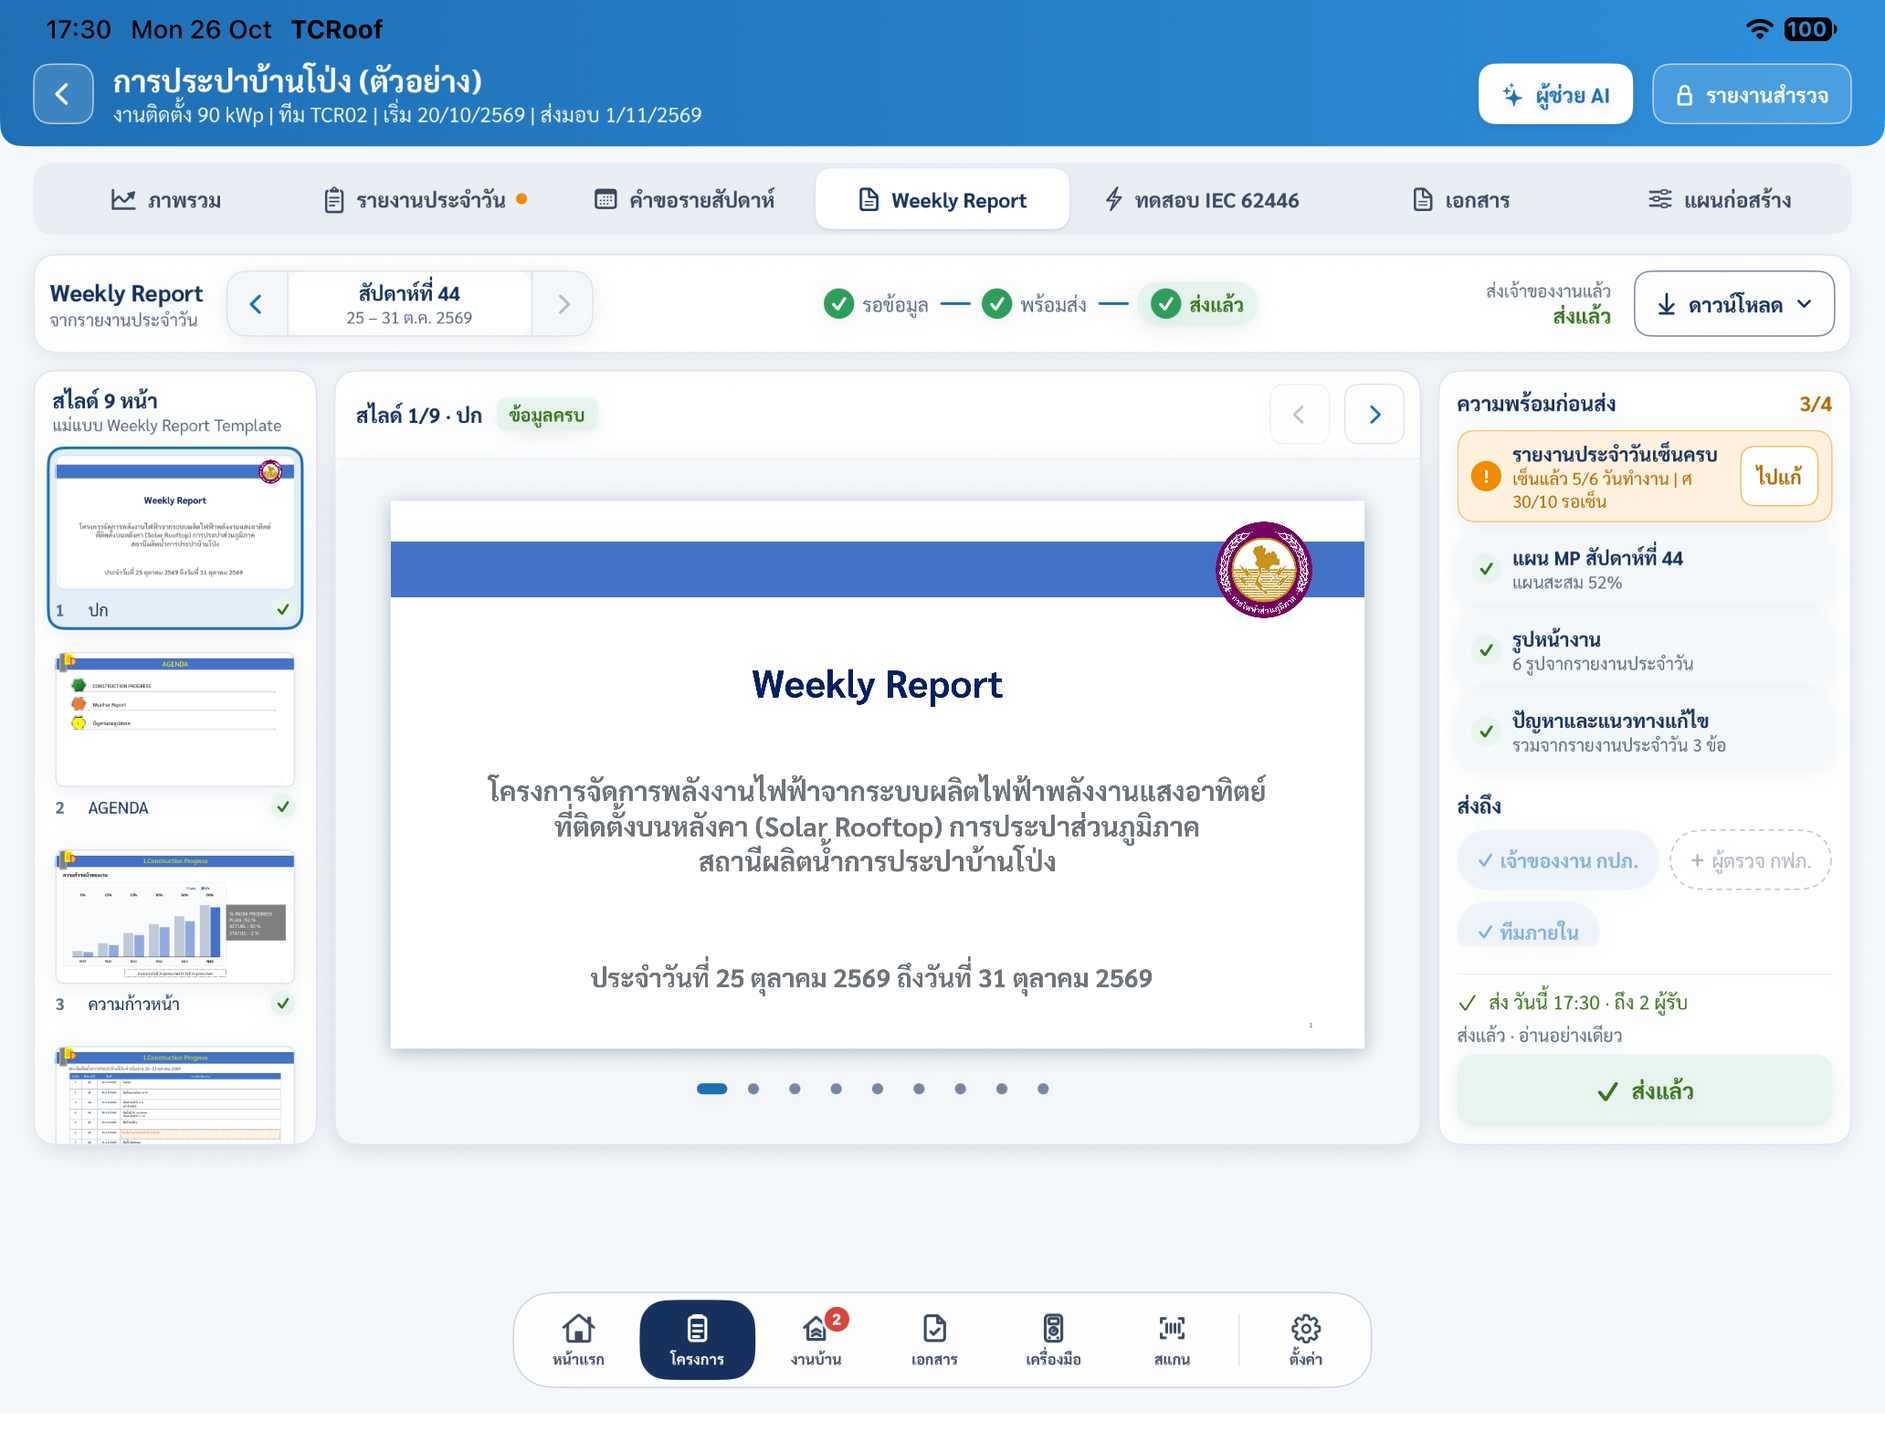
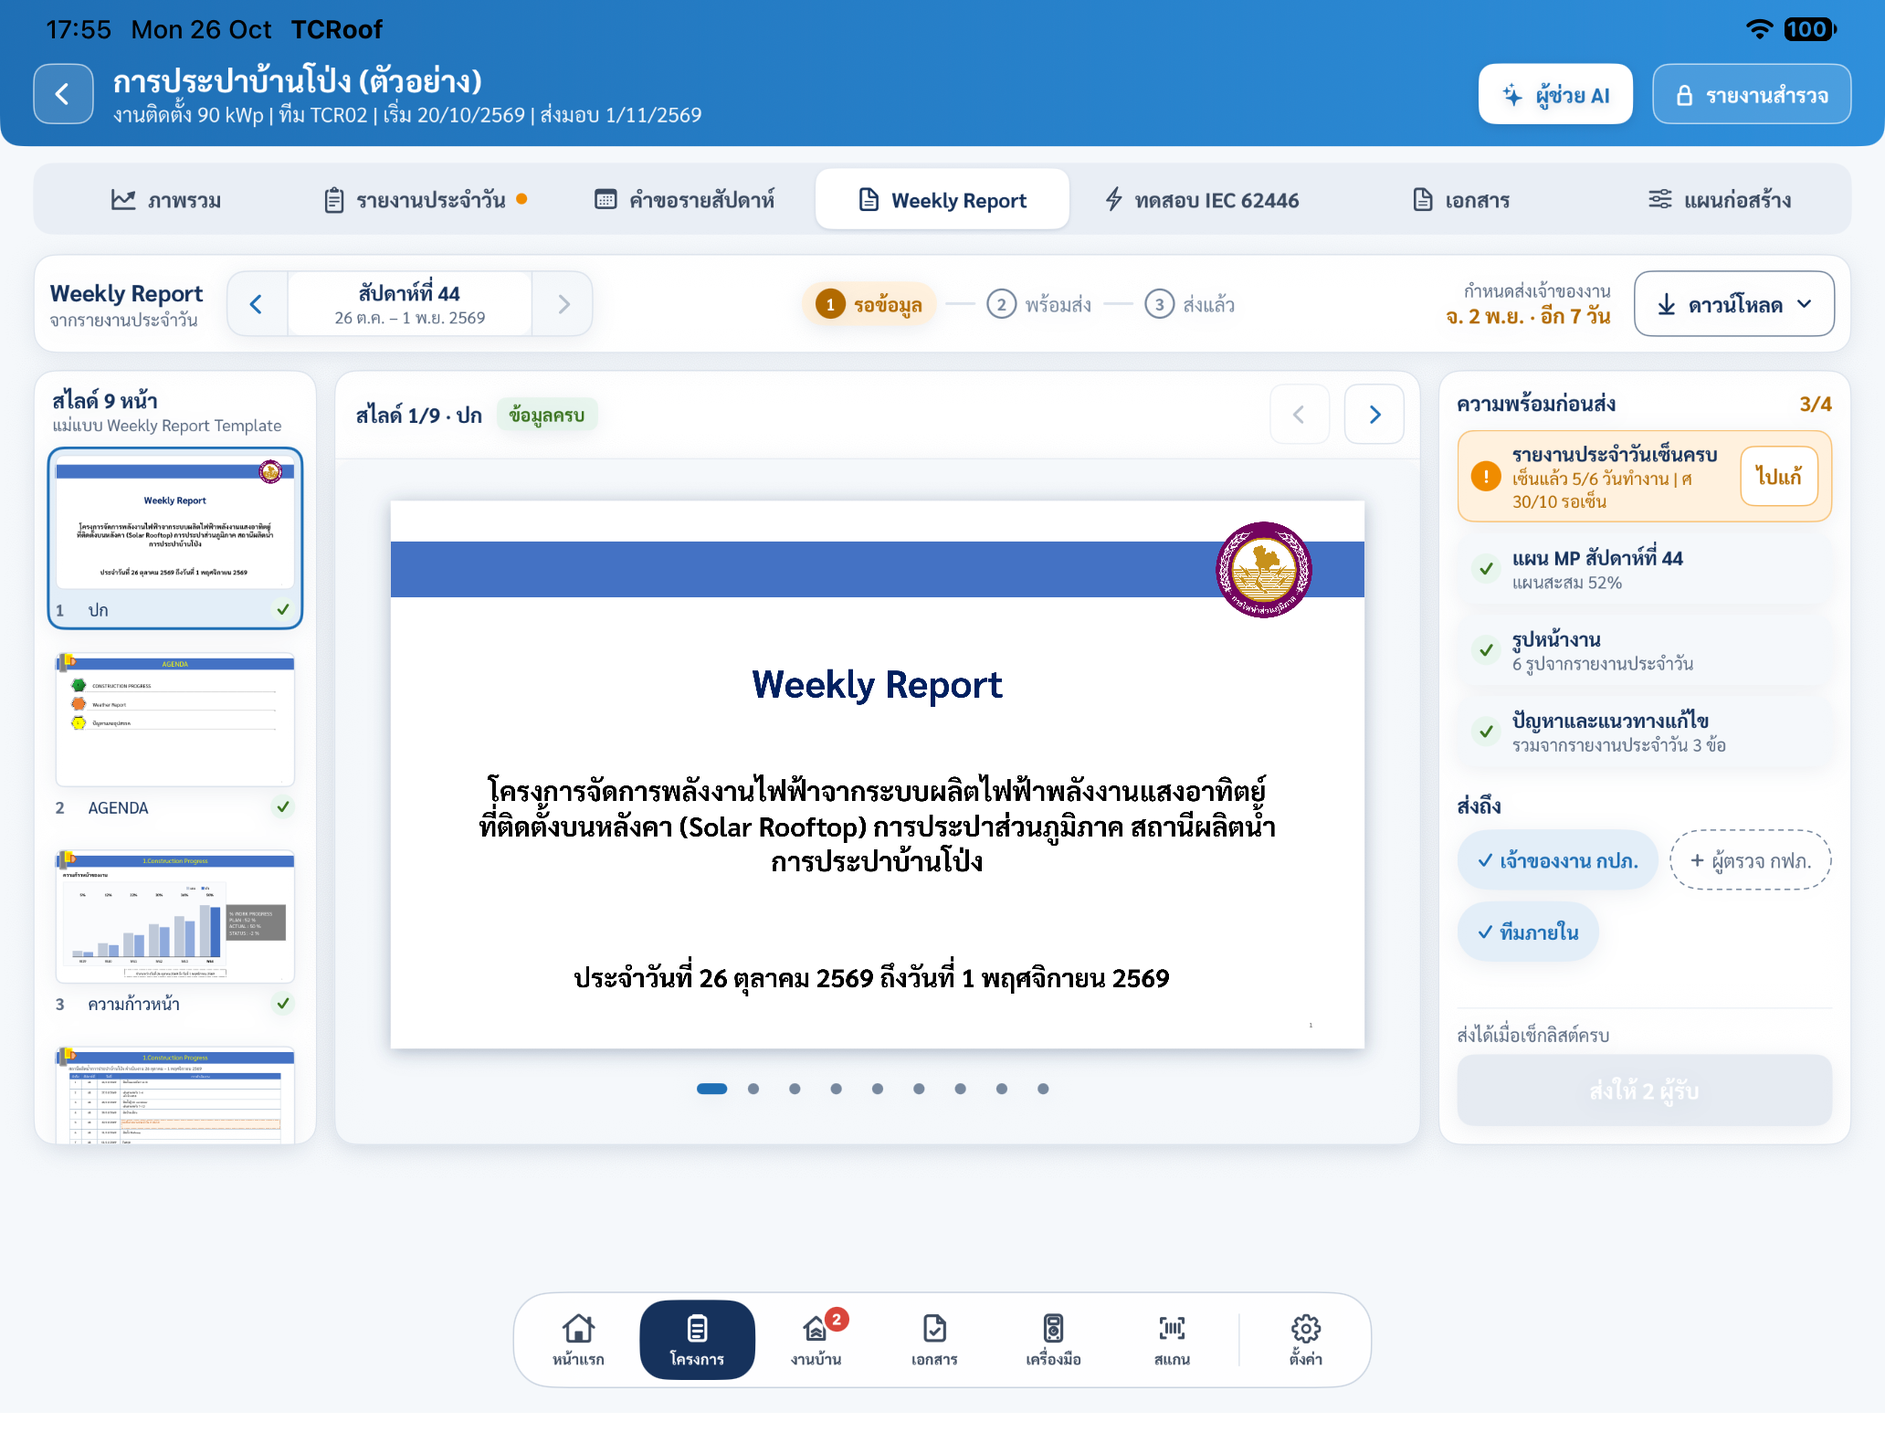
Weekly Report: Monday-to-Sunday weeks, black cover lines
- The Weekly Report's week runs Monday to Sunday as the customer's deck
  (`WeeklySlides.week(of:)`, ISO week numbers): the deck, the tab's week
  switcher and its checks on both sizes. The R3 PDF, the MP plan and file
  names keep their Sunday weeks; the send record is keyed by that Sunday.
- The cover's project line and date line are black.

Claude-Session: https://claude.ai/code/session_01UN56C5tqBzLHr9iWANZJVH

diff --git a/TCRoofKit/Tests/ExcelExportTests/WeeklySlidesTests.swift b/TCRoofKit/Tests/ExcelExportTests/WeeklySlidesTests.swift
@@ -11,8 +11,8 @@ final class WeeklySlidesTests: XCTestCase {
     /// A small real JPEG (the IEC form's PWA logo, 220 × 222).
     func jpeg() throws -> Data { try XCTUnwrap(ZipArchive(IECExcel.template()).data("xl/media/image1.jpeg")) }
 
-    /// MP 189's plan; the week of 8 มี.ค. 2569 (Sunday) with reports on Monday (signed, no photos), Tuesday (signed, the
-    /// photos, a problem) and Wednesday (not signed), as of Saturday.
+    /// MP 189's plan; the week of 9–15 มี.ค. 2569 (Monday to Sunday) with reports on Monday (signed, no photos), Tuesday
+    /// (signed, the photos, a problem) and Wednesday (not signed), as of Saturday.
     func input(photos: [WeeklySlides.DayPhoto], wedSigned: Bool = false) -> WeeklySlides.Input {
         let plan = MasterSchedule.Input(installStart: day(2026, 2, 22), installEnd: day(2026, 4, 8), kickoff: day(2026, 1, 5),
                                         engineeringStart: day(2026, 1, 5), siteHandover: day(2026, 1, 12), over200kVA: false)
@@ -57,12 +57,12 @@ final class WeeklySlidesTests: XCTestCase {
         }
         // the order: cover, AGENDA, progress, the day table, the photo slides, weather, problems
         XCTAssertTrue(s[0].contains("Weekly Report") && s[0].contains("สถานีผลิตน้ำทุ่งน้อย"))
-        XCTAssertTrue(s[0].contains("ประจำวันที่ 8 มีนาคม 2569 ถึงวันที่ 14 มีนาคม 2569"))
+        XCTAssertTrue(s[0].contains("ประจำวันที่ 9 มีนาคม 2569 ถึงวันที่ 15 มีนาคม 2569"), "Monday to Sunday")
         XCTAssertTrue(s[1].contains("AGENDA") && s[1].contains("CONSTRUCTION PROGRESS") && s[1].contains("Weather Report"))
         XCTAssertTrue(s[2].contains("ความก้าวหน้าของงาน") && s[2].contains("% WORK PROGRESS"))
         XCTAssertTrue(s[3].contains("การดำเนินงาน") && s[3].contains("-ติดตั้งโครงสร้าง | โซน A"), "done work starts with -")
-        XCTAssertTrue(s[3].contains("สถานีผลิตน้ำทุ่งน้อย ดำเนินงาน 8–14 มีนาคม 2569"))
-        XCTAssertTrue(s[2].contains("ช่วงระหว่างวันที่ 8 มีนาคม 2569 ถึง วันที่ 14 มีนาคม 2569"))
+        XCTAssertTrue(s[3].contains("สถานีผลิตน้ำทุ่งน้อย ดำเนินงาน 9–15 มีนาคม 2569"))
+        XCTAssertTrue(s[2].contains("ช่วงระหว่างวันที่ 9 มีนาคม 2569 ถึง วันที่ 15 มีนาคม 2569"))
         XCTAssertTrue((4...6).allSatisfy { s[$0].contains("PROGRESS FOR THIS WEEK") })
         XCTAssertTrue(s[7].contains("2.Weather Report") && s[7].contains("ฝนตก") && s[7].contains("แจ่มใส"))
         XCTAssertTrue(s[7].contains(">MON<") && s[7].contains(">SUN<"))
@@ -96,12 +96,13 @@ final class WeeklySlidesTests: XCTestCase {
         let c = WeeklySlides.content(input(photos: []))
         XCTAssertEqual(c.waiting, ["พ 11/3", "พฤ 12/3", "ศ 13/3", "ส 14/3"], "unsigned, then working days with no report")
         XCTAssertEqual(c.rows.count, 7)
-        XCTAssertEqual(c.rows[0].state, .off, "Sunday")
-        XCTAssertEqual(c.rows[1].state, .done)
-        XCTAssertEqual(c.rows[3].state, .waiting)
-        XCTAssertEqual(c.rows[3].lines, ["รอเซ็นรายงานประจำวัน พ 11/3"])
+        XCTAssertEqual(c.rows[0].state, .done, "Monday first")
+        XCTAssertEqual(c.rows[2].state, .waiting)
+        XCTAssertEqual(c.rows[2].lines, ["รอเซ็นรายงานประจำวัน พ 11/3"])
         // Thursday to Saturday have no report: working days already past, so they wait too
-        XCTAssertEqual(c.rows[4].lines, ["ยังไม่มีรายงานประจำวัน พฤ 12/3"])
+        XCTAssertEqual(c.rows[3].lines, ["ยังไม่มีรายงานประจำวัน พฤ 12/3"])
+        XCTAssertEqual(c.rows[6].state, .off, "Sunday last")
+        XCTAssertEqual(c.weather.map(\.name), ["MON", "TUE", "WED", "THU", "FRI", "SAT", "SUN"])
         let o = WeeklySlides.outline(input(photos: []))
         XCTAssertEqual(o.map(\.label), ["ปก", "AGENDA", "ความก้าวหน้า", "งานรายวัน", "ภาพหน้างาน", "Weather Report", "ปัญหาและอุปสรรค"])
         XCTAssertEqual(o.map(\.number), Array(1...7))
@@ -118,7 +119,7 @@ final class WeeklySlidesTests: XCTestCase {
         let o = WeeklySlides.outline(i)
         XCTAssertTrue(o.allSatisfy(\.ready), o.filter { !$0.ready }.map(\.label).joined(separator: ", "))
         // Thursday onwards is still ahead
-        XCTAssertEqual(WeeklySlides.content(i).rows[4].state, .ahead)
+        XCTAssertEqual(WeeklySlides.content(i).rows[3].state, .ahead)
     }
 
     /// The week's photos day by day, two a slide, at most twenty.
@@ -153,15 +154,24 @@ final class WeeklySlidesTests: XCTestCase {
     }
 
     /// The customer's deck: text in TH SarabunPSK at its point sizes (band title 36 pt, cover title 54 pt, the day table in
-    /// TH Sarabun New at 16 pt with an 18 pt header and 1 pt borders), the cover's lines in its grey.
+    /// TH Sarabun New at 16 pt with an 18 pt header and 1 pt borders), the cover's lines in black.
     func testTheCustomersFontsAndSizes() throws {
         let s = try slides(ZipArchive(WeeklySlides.export(input(photos: []), images: [:])))
         XCTAssertTrue(s[0].contains("typeface=\"TH SarabunPSK\""))
         XCTAssertTrue(s[0].contains("sz=\"5400\" b=\"1\""), "Weekly Report 54 pt bold")
-        XCTAssertTrue(s[0].contains("6E747A"), "the cover's grey")
+        XCTAssertFalse(s[0].contains("6E747A"), "the cover's lines in black")
+        XCTAssertTrue(s[0].contains("val=\"000000\"/></a:solidFill><a:latin typeface=\"TH SarabunPSK\"/><a:ea typeface=\"TH SarabunPSK\"/><a:cs typeface=\"TH SarabunPSK\"/></a:rPr><a:t>โครงการ"), "the project line in black")
         XCTAssertTrue(s[2].contains("sz=\"3600\""), "the band title")
         XCTAssertTrue(s[3].contains("typeface=\"TH Sarabun New\"") && s[3].contains("sz=\"1600\"") && s[3].contains("sz=\"1800\""))
         XCTAssertTrue(s[3].contains("w=\"12700\""), "1 pt borders")
+    }
+
+    /// Monday to Sunday, numbered by ISO week; a Sunday belongs to the week before.
+    func testTheWeek() {
+        XCTAssertEqual(WeeklySlides.week(of: day(2026, 3, 11)), day(2026, 3, 9)...day(2026, 3, 15))
+        XCTAssertEqual(WeeklySlides.week(of: day(2026, 3, 15)), day(2026, 3, 9)...day(2026, 3, 15))
+        XCTAssertEqual(WeeklySlides.week(of: day(2026, 3, 16)).lowerBound, day(2026, 3, 16))
+        XCTAssertEqual(WeeklySlides.weekNumber(day(2025, 6, 30)), 27, "the customer's deck: 30 มิ.ย. 2568 is week 27")
     }
 
     func testFileName() {

diff --git a/TCRoofKit/Sources/ExcelExport/WeeklySlides+Content.swift b/TCRoofKit/Sources/ExcelExport/WeeklySlides+Content.swift
@@ -108,7 +108,7 @@ extension WeeklySlides {
 
     public struct Content: Sendable {
         public var weekStart: Date
-        /// `WEEKNUM` of the week (Sunday first), the template's `สัปดาห์ที่`.
+        /// The ISO number of the week (Monday to Sunday), the template's `สัปดาห์ที่`.
         public var weekNumber: Int
         /// The cover's project lines and `สถานีผลิตน้ำ…`.
         public var project: [String]
@@ -185,11 +185,11 @@ extension WeeklySlides {
     /// nil takes every photo.
     public static func content(_ input: Input, images: [UUID: Data]? = nil) -> Content {
         let cal = RoutineReport.calendar
-        let range = RoutineReport.week(of: input.week), start = range.lowerBound
+        let range = week(of: input.week), start = range.lowerBound
         let days = input.days.filter { range.contains(cal.startOfDay(for: $0.report.date)) }.sorted { $0.report.date < $1.report.date }
         let reports = days.map(\.report)
         let today = cal.startOfDay(for: input.asOf)
-        let weekNumber = MasterSchedule.calendar.component(.weekOfYear, from: start)
+        let weekNumber = WeeklySlides.weekNumber(start)
 
         // slide 3: the plan's cumulative percent at the end of each of the last six weeks
         var bars: [Bar] = [], planned: Double?, actual: Double?
@@ -199,7 +199,7 @@ extension WeeklySlides {
                 let w = cal.date(byAdding: .day, value: -7 * k, to: start)!
                 let end = min(cal.date(byAdding: .day, value: 6, to: w)!, max(today, w))
                 let st = MasterSchedule.status(plan: plan, actual: s.actual, through: end)
-                bars.append(Bar(label: "W\(MasterSchedule.calendar.component(.weekOfYear, from: w))", planned: st.planned,
+                bars.append(Bar(label: "W\(WeeklySlides.weekNumber(w))", planned: st.planned,
                                 actual: st.actual, current: k == 0))
             }
             planned = bars.last?.planned; actual = bars.last?.actual
@@ -270,6 +270,21 @@ extension WeeklySlides {
                        photoCount: perDay.reduce(0) { $0 + $1.count }, weather: weather,
                        problems: all.map(\.description), fixes: all.map(\.solution).filter { !$0.isEmpty },
                        waiting: waiting, reportCount: reports.count)
+    }
+
+    /// The Weekly Report's week, Monday to Sunday as the customer's deck (the R3 PDF and the MP plan count weeks from
+    /// Sunday).
+    public static func week(of date: Date) -> ClosedRange<Date> {
+        let cal = RoutineReport.calendar, d = cal.startOfDay(for: date)
+        let monday = cal.date(byAdding: .day, value: -((cal.component(.weekday, from: d) + 5) % 7), to: d)!
+        return monday...cal.date(byAdding: .day, value: 6, to: monday)!
+    }
+
+    /// The ISO week number of a Monday-to-Sunday week (`สัปดาห์ที่`, `W40`).
+    public static func weekNumber(_ d: Date) -> Int {
+        var iso = Calendar(identifier: .iso8601)
+        iso.timeZone = RoutineReport.calendar.timeZone
+        return iso.component(.weekOfYear, from: d)
     }
 
     /// `28 กันยายน 2569`.

diff --git a/TCRoof/Views/Install/Tracking/InstallTrackingPage+WeeklyReport.swift b/TCRoof/Views/Install/Tracking/InstallTrackingPage+WeeklyReport.swift
@@ -736,16 +736,17 @@ private struct FlowRow: Layout {
 
 extension InstallTrackingPage {
     /// The board's example week (docs/ui/install-tracking-ipad-weekly-report/assets/sample-data.json) around today:
-    /// Monday to Saturday reported, Friday not signed unless `allSigned`, six drawn photos; nothing is saved.
+    /// Monday to Saturday reported (the week runs Monday to Sunday), Friday not signed unless `allSigned`, six drawn
+    /// photos; nothing is saved.
     static func demoReport(week: Date, allSigned: Bool) -> (input: WeeklySlides.Input, images: [UUID: Data]) {
-        let cal = RoutineReport.calendar, start = MasterSchedule.weekStart(week)
+        let cal = RoutineReport.calendar, start = WeeklySlides.week(of: week).lowerBound
         let work = [["ติดตั้งแผงหลังคา A–B"], ["เดินสายสตริง 1–6", "เข้าหัว MC4"], ["ติดตั้งตู้ DC combiner", "เดินสายสตริง 7–12"],
                     ["ติดป้ายเตือน"], ["เทฐานอินเวอร์เตอร์"], ["ติดตั้ง Walkway"]]
         let sky: [RoutineReport.Weather] = [.fine, .fine, .cloudy, .cloudy, .rain, .rain]
         let pictures = [("แผงหลังคา A", 0), ("สายสตริง 1–6", 1), ("ตู้ DC", 2), ("สายสตริง 7–12", 2), ("ฐานอินเวอร์เตอร์", 4), ("ภาพรวมหลังคา", 5)]
         var images: [UUID: Data] = [:], days: [WeeklySlides.Day] = [], all: [RoutineReport.Daily] = []
         for i in 0..<6 {
-            let date = cal.date(byAdding: .day, value: i + 1, to: start)!
+            let date = cal.date(byAdding: .day, value: i, to: start)!
             var r = RoutineReport.Daily(date: date)
             r.progress = work[i].enumerated().map { k, t in .init(task: .structure, description: t, location: "", percent: Double(10 * (i + 1) + k)) }
             for h in r.weather.indices { r.weather[h] = sky[i] }

diff --git a/TCRoof/Views/Job/RoutineReports/RoutineReportSupport.swift b/TCRoof/Views/Job/RoutineReports/RoutineReportSupport.swift
@@ -238,7 +238,7 @@ enum RoutineReportFiles {
     /// The week's slides' input (`WeeklySlides`): the daily reports with their photos and whether our engineer signed
     /// them, the MP plan and next week's request; with the photos' bytes by id.
     static func slidesInput(_ job: Job, week: Date) -> (input: WeeklySlides.Input, images: [UUID: Data]) {
-        let ws = MasterSchedule.weekStart(week), range = RoutineReport.week(of: ws), cal = RoutineReport.calendar
+        let range = WeeklySlides.week(of: week), ws = range.lowerBound, cal = RoutineReport.calendar
         let st = job.reportStation
         // only the week's reports: the deck shows no other day, so no other photo is read
         var images: [UUID: Data] = [:]
@@ -261,7 +261,7 @@ enum RoutineReportFiles {
     /// The week's slides' input without the photos' bytes (each photo a placeholder), for `WeeklySlides.outline`: the
     /// rail and the iPhone's strip need only how many there are.
     static func outlineInput(_ job: Job, week: Date) -> WeeklySlides.Input {
-        let ws = MasterSchedule.weekStart(week), range = RoutineReport.week(of: ws), cal = RoutineReport.calendar
+        let range = WeeklySlides.week(of: week), ws = range.lowerBound, cal = RoutineReport.calendar
         let days = job.dailyLogs.filter { range.contains(cal.startOfDay(for: $0.date)) }.compactMap { log -> WeeklySlides.Day? in
             guard let r = log.report else { return nil }
             let photos = log.sortedPhotos.map { _ in WeeklySlides.DayPhoto(id: UUID(), width: 0, height: 0, caption: "") }

diff --git a/TCRoofKit/Sources/ExcelExport/WeeklySlides.swift b/TCRoofKit/Sources/ExcelExport/WeeklySlides.swift
@@ -106,8 +106,8 @@ public enum WeeklySlides {
             if let seal = templatePicture("logo-pea-seal") { s.picture(1608, 28, 228, 214, data: seal, descr: "ตราการไฟฟ้าส่วนภูมิภาค") }
             s.text(160, 283, 1600, 146, ["Weekly Report"], size: 75.6, bold: true, color: Tpl.title, align: "ctr", anchor: "ctr")
             // one paragraph that wraps, as the customer's cover
-            s.text(170, 486, 1580, 305, [(content.project + [content.station]).joined(separator: " ")], size: 56, bold: true, color: Tpl.coverInk, align: "ctr", anchor: "ctr")
-            s.text(99, 887, 1700, 102, [content.range], size: 50.4, bold: true, color: Tpl.coverInk, align: "ctr", anchor: "ctr")
+            s.text(170, 486, 1580, 305, [(content.project + [content.station]).joined(separator: " ")], size: 56, bold: true, color: Tpl.ink, align: "ctr", anchor: "ctr")
+            s.text(99, 887, 1700, 102, [content.range], size: 50.4, bold: true, color: Tpl.ink, align: "ctr", anchor: "ctr")
         }
 
         /// Every slide but the cover: the band with its yellow title and the template's mark at its left.

diff --git a/TCRoof/Views/Install/Tracking/WeeklySlideView.swift b/TCRoof/Views/Install/Tracking/WeeklySlideView.swift
@@ -72,8 +72,8 @@ struct WeeklySlideView: View {
             at(0, 80, 1920, 110, Tpl.band)
             if let seal = picture("logo-pea-seal") { at(1608, 28, 228, 214, seal.resizable().scaledToFit()) }
             text("Weekly Report", 160, 283, 1600, 146, size: 75.6, bold: true, color: Tpl.title, align: .center)
-            text((data.project + [data.station]).joined(separator: "\n"), 170, 486, 1580, 305, size: 53.2, bold: true, color: Tpl.coverInk, align: .center)
-            text(data.range, 99, 887, 1700, 102, size: 50.4, bold: true, color: Tpl.coverInk, align: .center)
+            text((data.project + [data.station]).joined(separator: " "), 170, 486, 1580, 305, size: 53.2, bold: true, color: Tpl.ink, align: .center)
+            text(data.range, 99, 887, 1700, 102, size: 50.4, bold: true, color: Tpl.ink, align: .center)
         }
     }
 

diff --git a/TCRoof/Views/Install/Tracking/InstallTrackingPage+PhoneSummaries.swift b/TCRoof/Views/Install/Tracking/InstallTrackingPage+PhoneSummaries.swift
@@ -215,7 +215,8 @@ extension InstallTrackingPage {
     var reportWeekRange: ClosedRange<Date> {
         let cal = RoutineReport.calendar
         let anchor = cal.date(byAdding: .day, value: 7 * reportWeek, to: .now) ?? .now
-        return RoutineReport.week(of: anchor)
+        // Weekly Report weeks run Monday to Sunday, as the customer's deck
+        return WeeklySlides.week(of: anchor)
     }
 
     func phoneWeeklyTab() -> some View {
